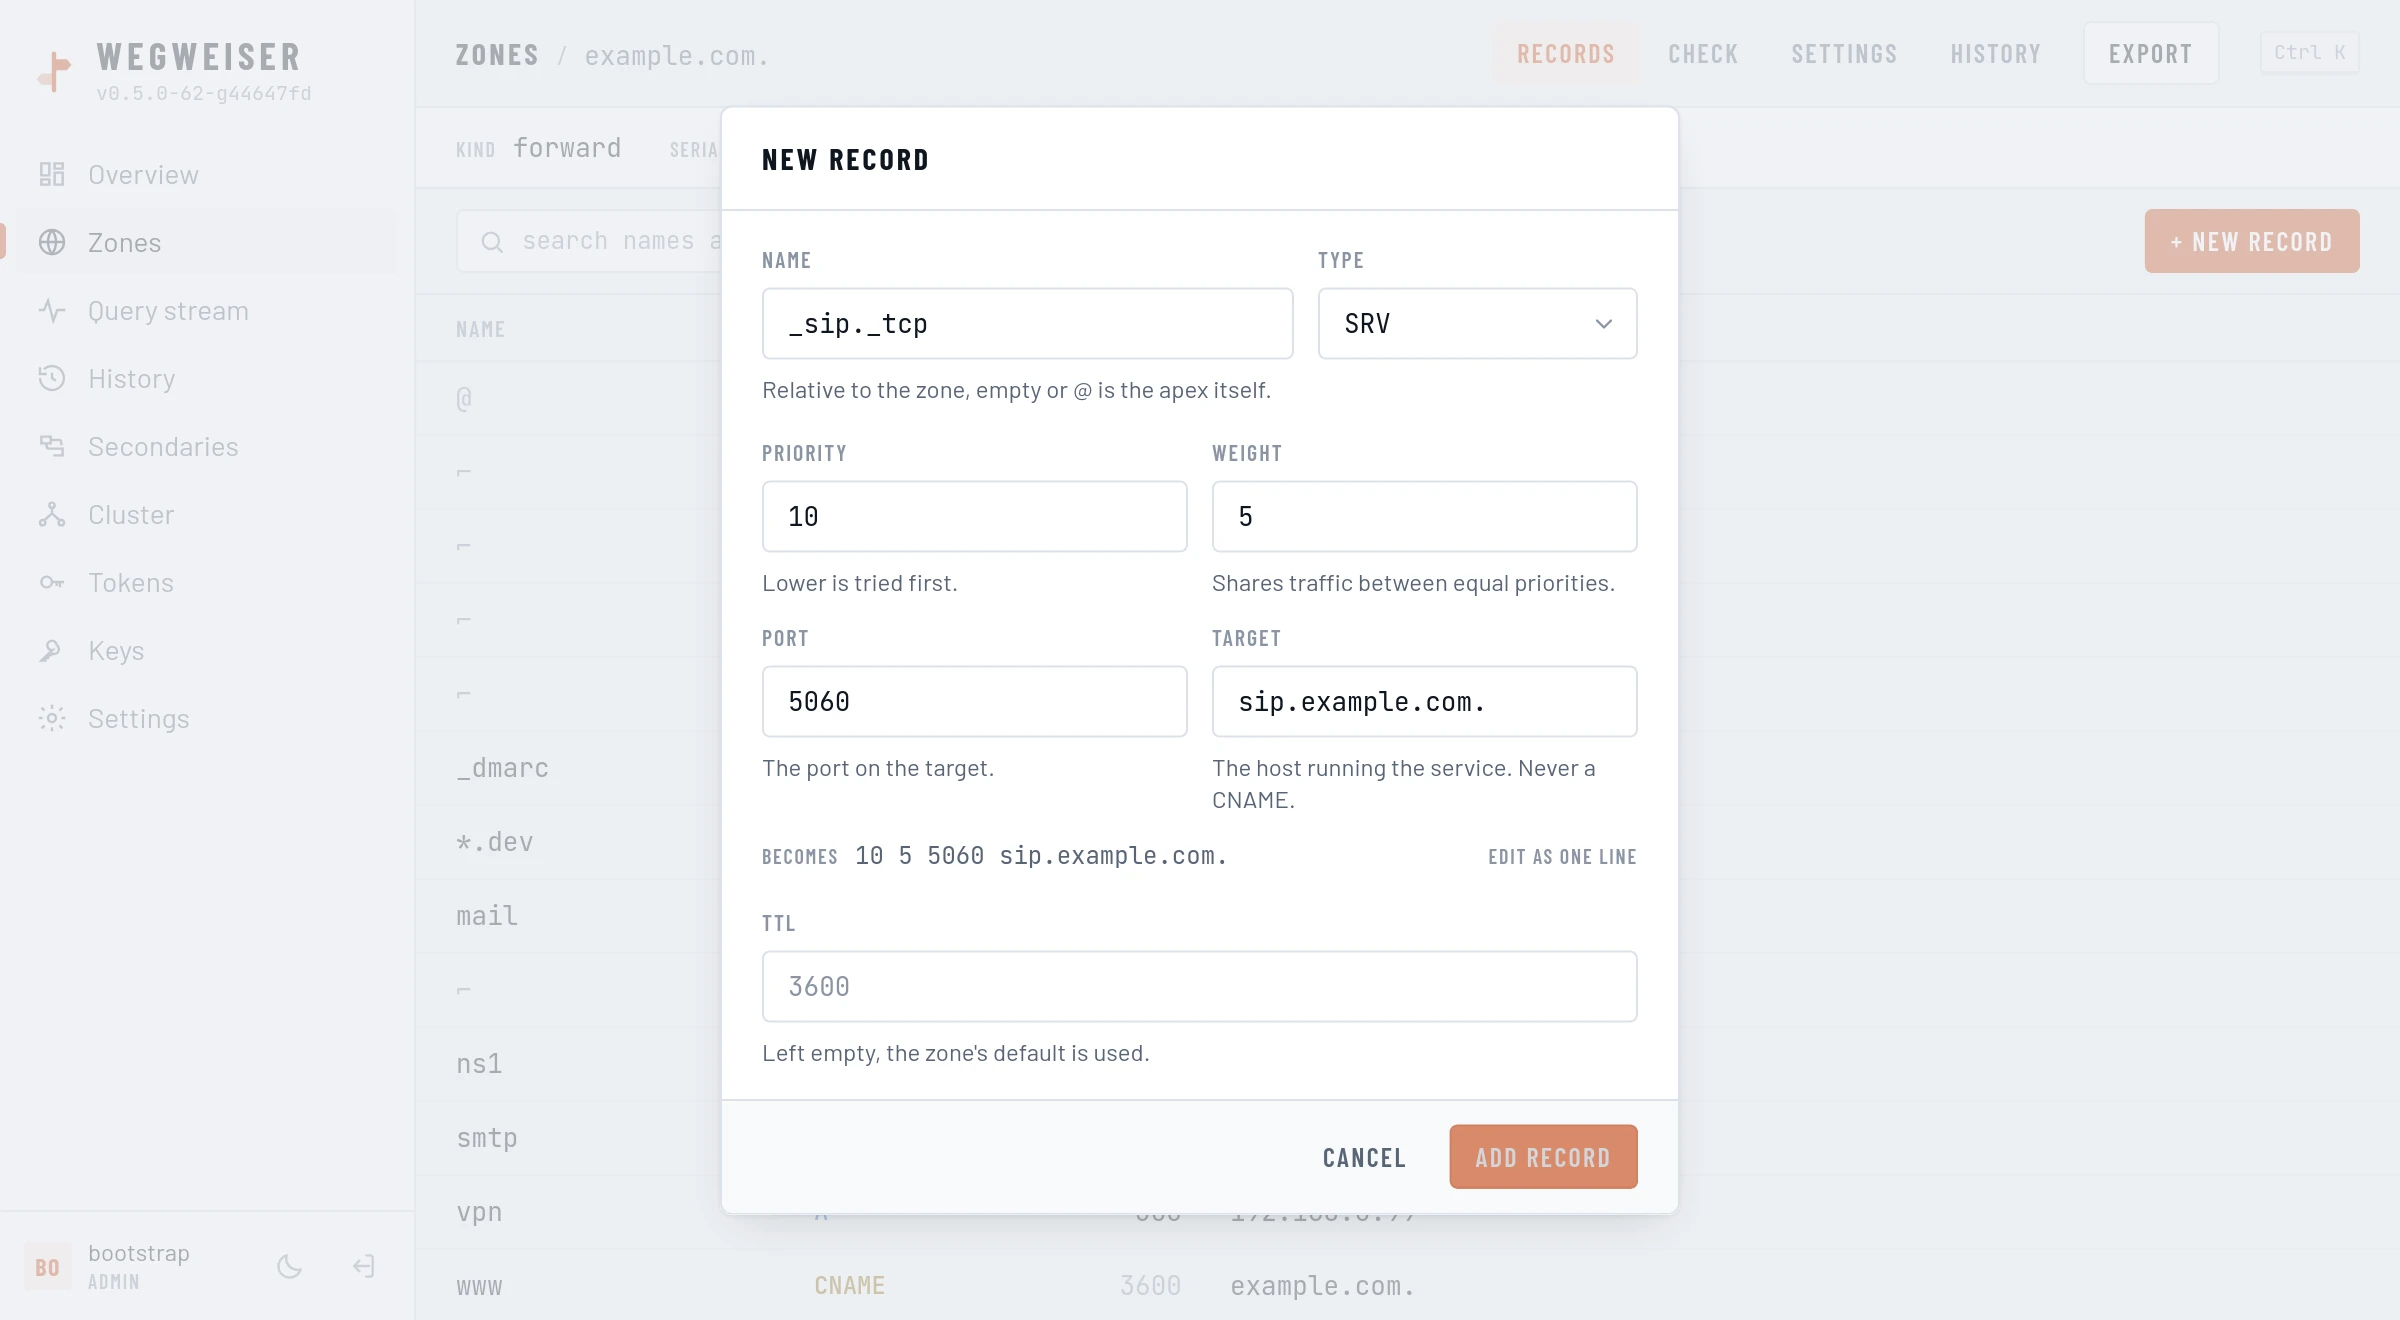
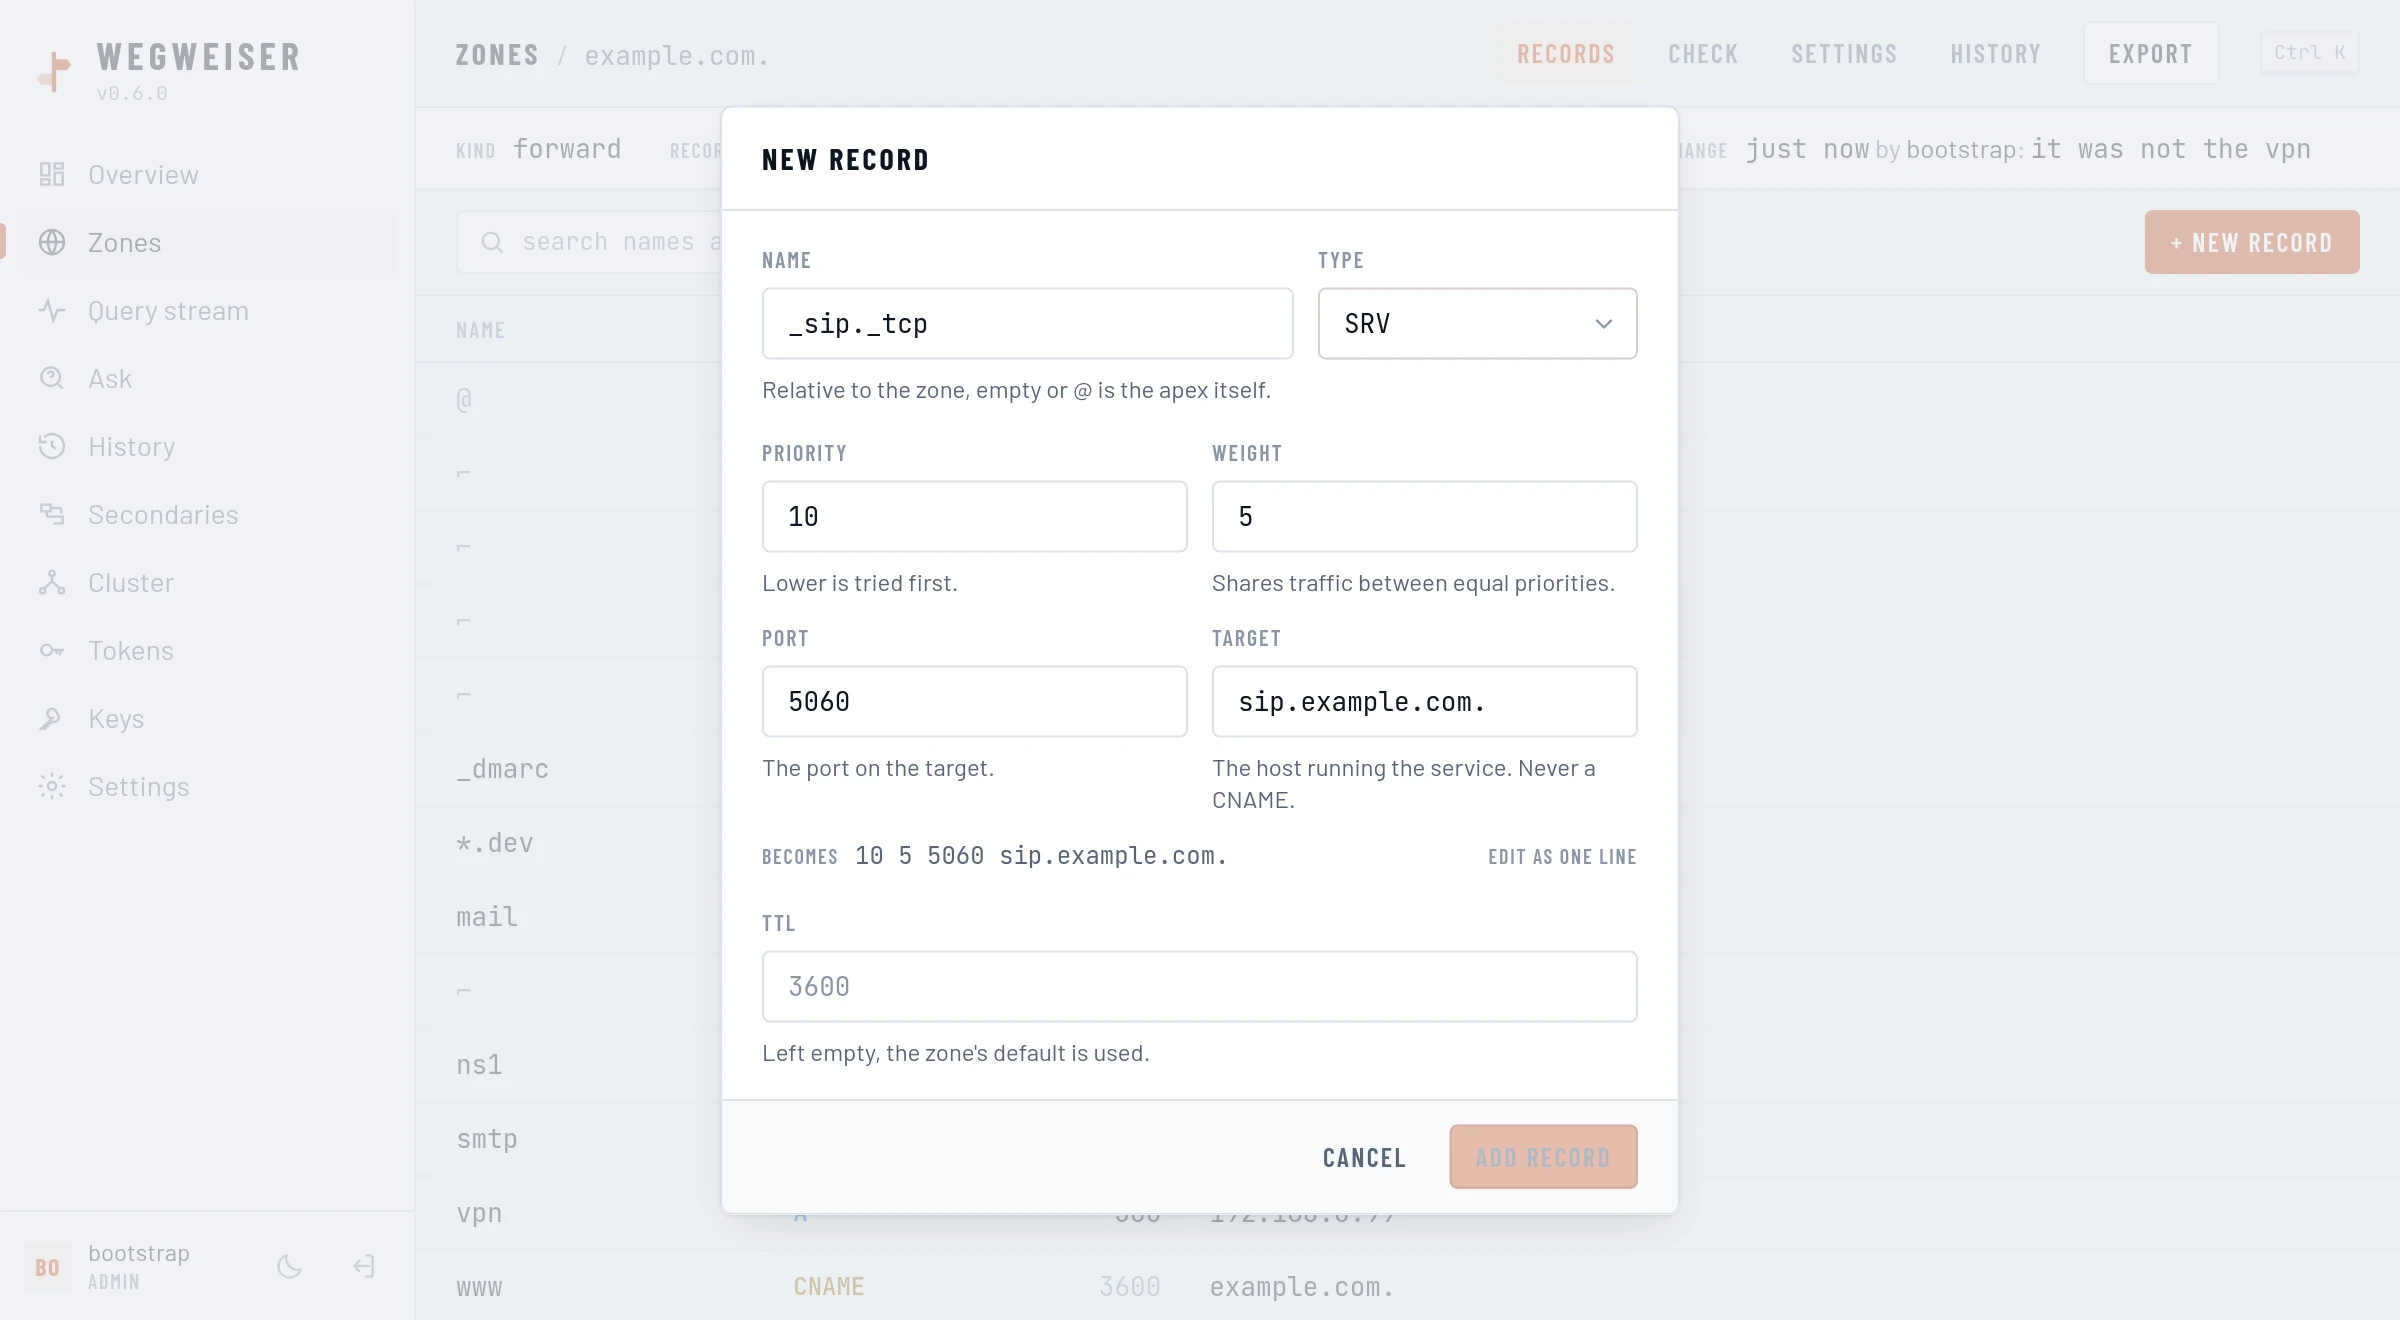
docs: the screenshots catch up with 0.6.0, and the Ask page has its own

diff --git a/content/docs/ask.md b/content/docs/ask.md
@@ -121,6 +121,8 @@ and says `refused`.
 there. It leads with the kind of answer, then the response code, the zone and the records,
 section by section, and a copy as a zonefile writes it underneath.
 
+{{< screenshot "ask" "The Ask page for 200.0.168.192.in-addr.arpa PTR: headed An alias, NOERROR and authoritative from 0.168.192.in-addr.arpa, with the CNAME into the classless child zone 192/26 and the PTR it leads to, and the questions asked before listed beside it." >}}
+
 Every name in an answer asks about itself. Clicking the target of an alias, a name server in a
 referral or the exchange of an `MX` asks the next question, so a chain can be walked without
 typing it. The question is kept in the address, which means it can be sent to somebody else

diff --git a/content/docs/web-interface.md b/content/docs/web-interface.md
@@ -149,6 +149,8 @@ section by section. Every name in an answer asks about itself, so an alias or a 
 be followed by clicking, and the question stays in the address to be sent on.
 [Asking what it answers](/docs/ask/) has the kinds and what each means.
 
+{{< screenshot "ask" "The Ask page for an address in a classless delegation: headed An alias, with the CNAME into the child zone and the PTR it leads to, and the questions asked before listed beside it." >}}
+
 ## History
 
 Every change, newest first, with the diff of any of them beside it. Each row says which
